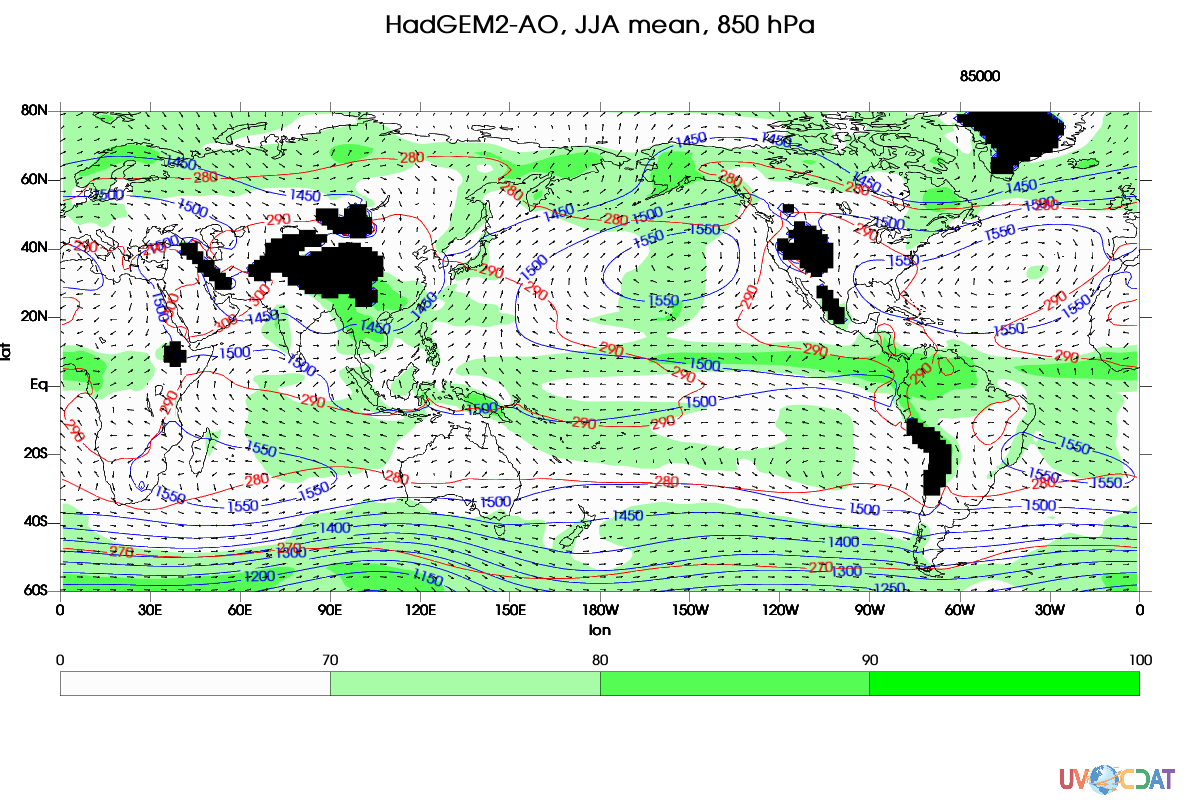
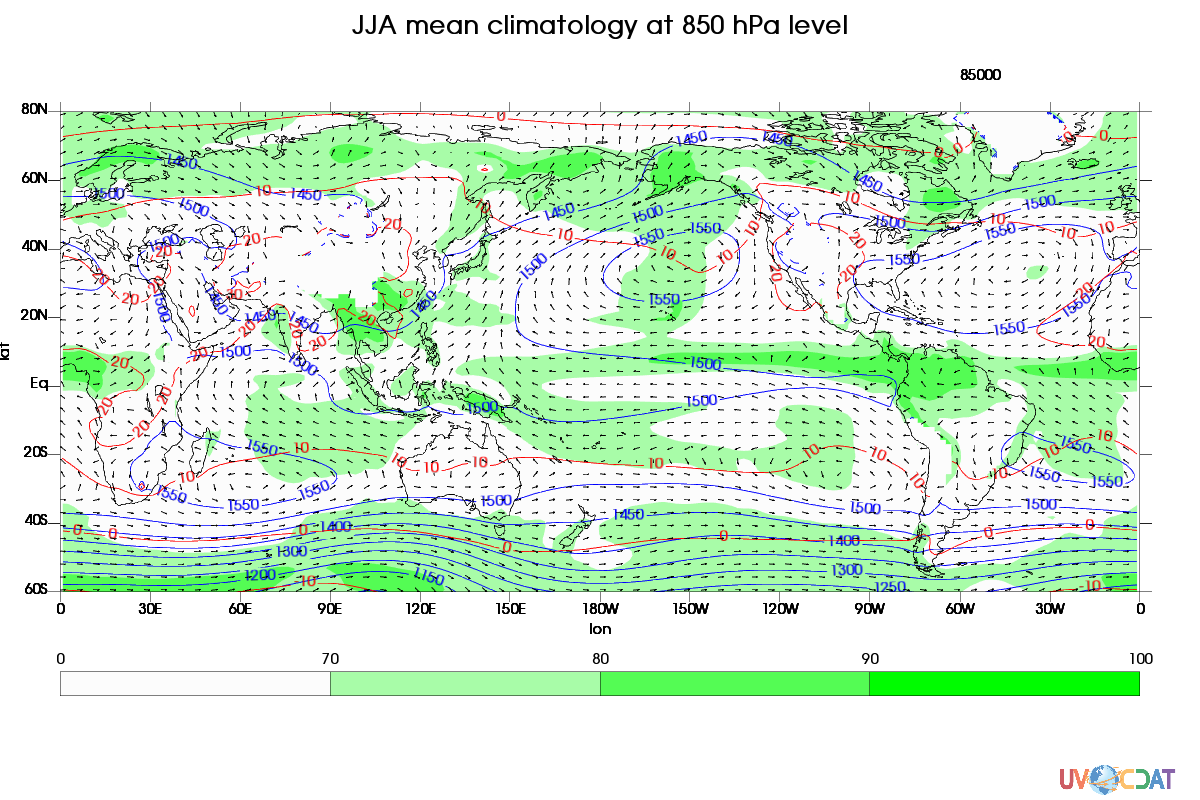
Clean up

diff --git a/example_850mb_rh_ts_gph_jja_clim.py b/example_850mb_rh_ts_gph_jja_clim.py
@@ -1,92 +1,76 @@
 ################################################################################################# 
-# This python script plots climatologyt of JJA, at 850 hPa, obtained from one single CMIP5 model
+# This Python script plots JJA climatology at 850 hPa level, which given from one of CMIP5 models
 # 
-# Ji-Woo Lee (jwlee@llnl.gov), April 2016
+# Ji-Woo Lee (jwlee@llnl.gov), August 2016
 ################################################################################################# 
+
 import cdms2 as cdms
 import cdutil
 import cdtime
 import vcs
 
 #================================================================================================
-# Define function to get JJA climatology
+# Data
 #------------------------------------------------------------------------------------------------
-def getjja(var):
-    var_jja = cdutil.JJA.climatology(d(time=(start_time,end_time)))
-    var_jja.units = var.units
-    var_jja.long_name = 'JJA clim. '+var.id+' '+str(start_year)+'-'+str(end_year)
-    var_jja.id = d.id
-    var_jja.model = 'HadGEM2-AO'
-    return(var_jja)
-
-#================================================================================================
-# Main part starts
-#------------------------------------------------------------------------------------------------
-
-#
-# open file from local -- DATA was downloaded from ESGF
-#
-
+# List of variables to plot ---
 vars = ['hur','zg','ta','ua','va']
 nvar = len(vars)
 
+# Time period ---
 start_year = 1949
 end_year = 2010
 start_time = cdtime.comptime(start_year)
 end_time =cdtime.comptime(end_year)
 
+# Dictionary for variables ---
 data={}
 
+# Bring data in ---
 for var in vars[0:nvar]:
-    #odir = '/cmip5_css02/data/cmip5/output1/NIMR-KMA/HadGEM2-AO/historical/mon/atmos/Amon/r1i1p1/'+var+'/1/' # Get your data directory here
-    odir = '/Users/lee1043/Documents/Research/UV-CDAT/test_data/'
-    nc = var+'_Amon_HadGEM2-AO_historical_r1i1p1_186001-200512.nc'
-    f = cdms.open(odir+nc)
-    #
-    # load variable
-    #
-    d = f(var,lev=85000)
+  print var
 
-    #
-    # climatology calculation
-    #
-    data[var] = getjja(d)
+  # Open file (In this example case, data was downloaded from ESGF. Please prepare your data) ---
+  odir = '/cmip5_css02/data/cmip5/output1/NIMR-KMA/HadGEM2-AO/historical/mon/atmos/Amon/r1i1p1/'+var+'/1/' # Provide your data directory
+  nc = var+'_Amon_HadGEM2-AO_historical_r1i1p1_186001-200512.nc'
+  f = cdms.open(odir+nc)
 
-    print var
-    f.close()
+  # Load variable ---
+  d = f(var,lev=85000)
 
-#
-# Create canvas
-#
+  # Calculate JJA seasonal climatology ---
+  data[var] = cdutil.JJA.climatology(d(time=(start_time,end_time)))
+
+  # Close file ---
+  f.close()
+
+#================================================================================================
+# Plot
+#------------------------------------------------------------------------------------------------
+# Create canvas ---
 canvas = vcs.init(geometry=(1200,800))
 canvas.open()
 template = canvas.createtemplate()
-template.blank(["title","mean","min","max","dataname","crdate","crtime","units"]) ## Turn off additional information
+template.blank(['title','mean','min','max','dataname','crdate','crtime','units']) ## Turn off additional information to avoid overlap
 #template.list() ## This commend could give list of items 
 
-#
-# Set ploting range
-#
+# Set ploting range ---
 lat1=-60
 lat2=80
 lon1=0
 lon2=360
 
-#
-# Plot RH field (shaded)
-#
+# Plot RH field (shaded) ---
 iso = canvas.createisofill()
 iso.datawc_x1 = lon1
 iso.datawc_x2 = lon2
 iso.datawc_y1 = lat1
 iso.datawc_y2 = lat2
-canvas.setcolormap("white_to_green")
+iso.missing = 0
+canvas.setcolormap('white_to_green')
 iso.levels = [0, 70, 80, 90, 100]
 canvas.plot(data['hur'],iso,template)
 
-#
-# Plot GPH field (contour)
-#
+# Plot GPH field (contour) ---
 lines = vcs.createisoline()
 lines.datawc_x1 = lon1
 lines.datawc_x2 = lon2
@@ -97,20 +81,14 @@ lines.label = 'y'
 lines.textcolors=['blue']
 canvas.plot(data['zg'],lines,template)
 
-#
-# Plot T field (contour)
-#
+# Plot T field (second contour) ---
 lines.linecolors = ['red']
 lines.label = 'y' 
 lines.textcolors=['red']
-canvas.plot(data['ta'],lines,template)
+canvas.plot(data['ta']-273.15,lines,template) # K to C degree
 
-#
-# Plot wind field (vector)
-#
+# Plot wind field (vector) ---
 vec = vcs.createvector()
-#ua2 = data['ua'][...,::2,::2] ## Resample U field to reduce vector density to half
-#va2 = data['va'][...,::2,::2] ## Resample V filed to reduce vector density to half
 ua2 = data['ua'][...,::3,::3] ## Resample U field to reduce vector density to half
 va2 = data['va'][...,::3,::3] ## Resample V filed to reduce vector density to half
 vec.datawc_x1 = lon1
@@ -119,20 +97,15 @@ vec.datawc_y1 = lat1
 vec.datawc_y2 = lat2
 canvas.plot(ua2,va2,vec,template)
 
-#
-# Title writing
-#
+# Record title ---
 plot_title = vcs.createtext()
 plot_title.x = .5
 plot_title.y = .98
 plot_title.height = 24
-plot_title.halign = "center"
-plot_title.valign = "top"
-plot_title.color="black"
-plot_title.string = data['hur'].model+', JJA mean, 850 hPa'
+plot_title.halign = 'center'
+plot_title.valign = 'top'
+plot_title.string = 'JJA mean climatology at 850 hPa level'
 canvas.plot(plot_title)
 
-#
-# Save plot as an image file
-#
-canvas.png("example_850mb_rh_ts_gph_jja_clim")
+# Save plot as an image file ---
+canvas.png('example_850mb_rh_ts_gph_jja_clim')
